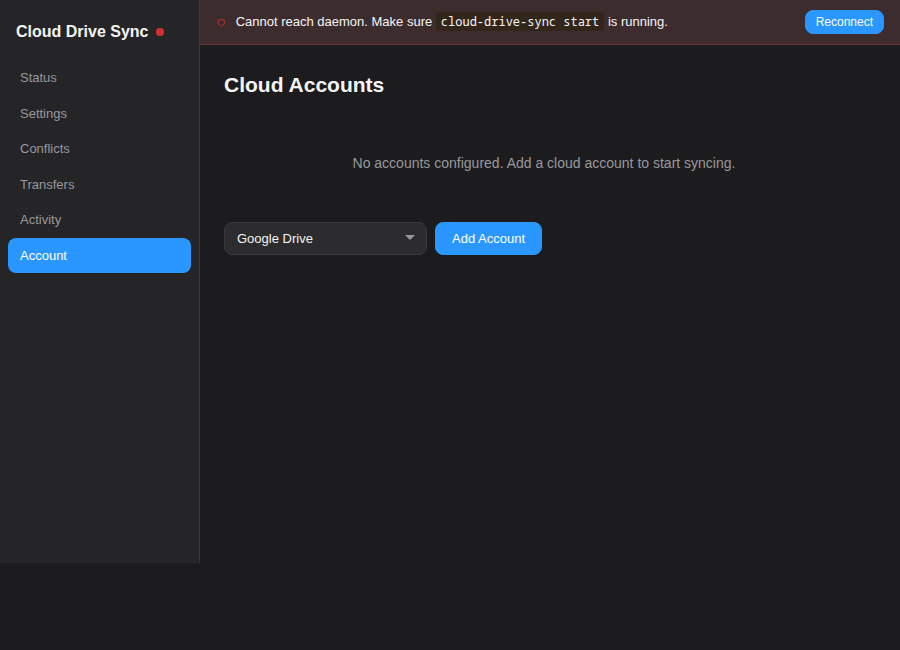
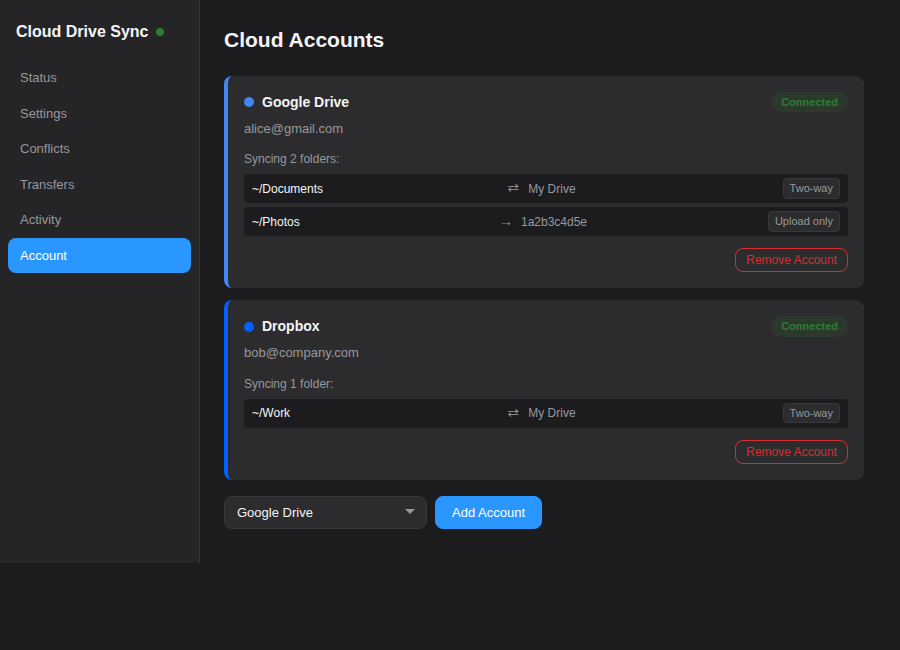
Add demo mode for screenshots, refresh all UI captures with rich data
Add DEMO=1 env var support in Vite config that swaps IPC calls for mock
data (ipc-demo.ts) and Tauri APIs for shims (tauri-shims.ts), enabling
headless browser screenshot capture without a running daemon.

Refresh all 6 UI screenshots with demo data showing multi-account setup
(Google Drive + Dropbox), sync folders, conflicts, activity log, and
transfers. Keep disconnected state screenshot for error documentation.

diff --git a/ui/src/lib/ipc-demo.ts b/ui/src/lib/ipc-demo.ts
@@ -1,0 +1,146 @@
+/**
+ * Mock IPC data for demo/screenshot mode.
+ * Used when Tauri runtime is not available (e.g., headless browser captures).
+ */
+
+import type {
+  Account,
+  DaemonStatus,
+  SyncPair,
+  ConflictRecord,
+  LogEntry,
+} from "./types";
+
+const DEMO_STATUS: DaemonStatus = {
+  connected: true,
+  daemon_reachable: true,
+  syncing: false,
+  paused: false,
+  error: null,
+  last_sync: new Date().toISOString(),
+  files_synced: 247,
+  active_transfers: 0,
+  live_transfers: [],
+  daemon: {
+    pid: 12345,
+    uptime: 86400,
+    uptime_formatted: "1d 0h 0m",
+    socket_path: "/run/user/1000/cloud-drive-sync.sock",
+  },
+};
+
+const DEMO_PAIRS: SyncPair[] = [
+  {
+    id: "pair_0",
+    local_path: "/home/user/Documents",
+    remote_folder_id: "root",
+    enabled: true,
+    sync_mode: "two_way",
+    ignore_hidden: true,
+    ignore_patterns: ["node_modules", "*.tmp"],
+    account_id: "alice@gmail.com",
+    provider: "gdrive",
+  },
+  {
+    id: "pair_1",
+    local_path: "/home/user/Photos",
+    remote_folder_id: "1a2b3c4d5e",
+    enabled: true,
+    sync_mode: "upload_only",
+    ignore_hidden: true,
+    ignore_patterns: [],
+    account_id: "alice@gmail.com",
+    provider: "gdrive",
+  },
+  {
+    id: "pair_2",
+    local_path: "/home/user/Work",
+    remote_folder_id: "root",
+    enabled: true,
+    sync_mode: "two_way",
+    ignore_hidden: false,
+    ignore_patterns: [".git", "build/"],
+    account_id: "bob@company.com",
+    provider: "dropbox",
+  },
+];
+
+const DEMO_ACCOUNTS: Account[] = [
+  {
+    email: "alice@gmail.com",
+    display_name: "Alice",
+    status: "connected",
+    provider: "gdrive",
+    max_concurrent_transfers: 4,
+  },
+  {
+    email: "bob@company.com",
+    display_name: "Bob",
+    status: "connected",
+    provider: "dropbox",
+    max_concurrent_transfers: 0,
+  },
+];
+
+const DEMO_CONFLICTS: ConflictRecord[] = [
+  {
+    id: "1",
+    path: "Documents/report-q4.docx",
+    local_mtime: "2026-03-22T14:30:00Z",
+    remote_mtime: "2026-03-22T15:10:00Z",
+    local_size: 245000,
+    remote_size: 248000,
+    detected_at: "2026-03-22T15:15:00Z",
+  },
+  {
+    id: "2",
+    path: "Photos/vacation/IMG_2024.jpg",
+    local_mtime: "2026-03-21T09:00:00Z",
+    remote_mtime: "2026-03-21T10:30:00Z",
+    local_size: 4200000,
+    remote_size: 4180000,
+    detected_at: "2026-03-21T11:00:00Z",
+  },
+];
+
+const DEMO_LOG: LogEntry[] = [
+  { id: 1, timestamp: "2026-03-23T10:05:00Z", event_type: "upload", path: "Documents/notes.md", details: "12 KB at 1.2 MB/s", status: "success", pair_id: "pair_0" },
+  { id: 2, timestamp: "2026-03-23T10:04:55Z", event_type: "download", path: "Documents/budget.xlsx", details: "89 KB at 2.1 MB/s", status: "success", pair_id: "pair_0" },
+  { id: 3, timestamp: "2026-03-23T10:04:50Z", event_type: "upload", path: "Photos/screenshot.png", details: "340 KB at 1.8 MB/s", status: "success", pair_id: "pair_1" },
+  { id: 4, timestamp: "2026-03-23T10:04:00Z", event_type: "sync", path: "", details: "Sync complete: 3 uploaded, 1 downloaded", status: "success", pair_id: "pair_0" },
+  { id: 5, timestamp: "2026-03-23T10:03:00Z", event_type: "conflict", path: "Documents/report-q4.docx", details: "Both sides modified", status: "error", pair_id: "pair_0" },
+  { id: 6, timestamp: "2026-03-23T09:58:00Z", event_type: "download", path: "Work/presentation.pptx", details: "2.1 MB at 3.4 MB/s", status: "success", pair_id: "pair_2" },
+  { id: 7, timestamp: "2026-03-23T09:55:00Z", event_type: "upload", path: "Work/src/main.py", details: "4 KB at 800 KB/s", status: "success", pair_id: "pair_2" },
+  { id: 8, timestamp: "2026-03-23T09:50:00Z", event_type: "sync", path: "", details: "Automatic sync started — scanning local and remote files", status: "success", pair_id: "pair_2" },
+];
+
+export async function getStatus(): Promise<DaemonStatus> { return DEMO_STATUS; }
+export async function getSyncPairs(): Promise<SyncPair[]> { return DEMO_PAIRS; }
+export async function addSyncPair() { return DEMO_PAIRS[0]; }
+export async function removeSyncPair() {}
+export async function setConflictStrategy() {}
+export async function resolveConflict() {}
+export async function forceSync() {}
+export async function pauseSync() {}
+export async function resumeSync() {}
+export async function getActivityLog(limit: number): Promise<LogEntry[]> { return DEMO_LOG.slice(0, limit); }
+export async function getConflicts(): Promise<ConflictRecord[]> { return DEMO_CONFLICTS; }
+export async function startAuth() { return {}; }
+export async function logout() {}
+export async function connectDaemon() {}
+export async function setSyncMode() {}
+export async function setIgnoreHidden() {}
+export async function setIgnorePatterns() {}
+export async function addAccount() { return { status: "ok" }; }
+export async function removeAccount() {}
+export async function listAccounts(): Promise<Account[]> { return DEMO_ACCOUNTS; }
+export async function setNotificationPrefs() { return { notify_sync_complete: true, notify_conflicts: true, notify_errors: true }; }
+export async function getNotificationPrefs() { return { notify_sync_complete: true, notify_conflicts: true, notify_errors: true }; }
+export async function setBandwidthLimits() { return { max_upload_kbps: 0, max_download_kbps: 0 }; }
+export async function getBandwidthLimits() { return { max_upload_kbps: 0, max_download_kbps: 0 }; }
+export async function setSyncRules() { return {}; }
+export async function getSyncRules() { return { max_file_size_mb: 0, include_regex: [], exclude_regex: [], min_date: "" }; }
+export async function setProxy() { return { http_proxy: "", https_proxy: "", no_proxy: "" }; }
+export async function getProxy() { return { http_proxy: "", https_proxy: "", no_proxy: "" }; }
+export async function listRemoteFolders() { return { folders: [{ id: "f1", name: "Documents" }, { id: "f2", name: "Photos" }, { id: "f3", name: "Work" }], parent_id: "root" }; }
+export async function setAccountMaxTransfers() { return {}; }

diff --git a/ui/vite.config.ts b/ui/vite.config.ts
@@ -1,11 +1,26 @@
 import { defineConfig } from "vite";
 import react from "@vitejs/plugin-react";
+import path from "path";
 
 const host = process.env.TAURI_DEV_HOST;
+const demoMode = process.env.DEMO === "1";
 
 export default defineConfig({
   plugins: [react()],
   clearScreen: false,
+  resolve: demoMode
+    ? {
+        alias: {
+          "../lib/ipc": path.resolve(__dirname, "src/lib/ipc-demo.ts"),
+          "./ipc": path.resolve(__dirname, "src/lib/ipc-demo.ts"),
+          "@tauri-apps/api/core": path.resolve(__dirname, "src/lib/tauri-shims.ts"),
+          "@tauri-apps/api/event": path.resolve(__dirname, "src/lib/tauri-shims.ts"),
+          "@tauri-apps/api/path": path.resolve(__dirname, "src/lib/tauri-shims.ts"),
+          "@tauri-apps/plugin-dialog": path.resolve(__dirname, "src/lib/tauri-shims.ts"),
+          "@tauri-apps/plugin-notification": path.resolve(__dirname, "src/lib/tauri-shims.ts"),
+        },
+      }
+    : undefined,
   server: {
     port: 1420,
     strictPort: true,

diff --git a/ui/src/lib/tauri-shims.ts b/ui/src/lib/tauri-shims.ts
@@ -1,0 +1,31 @@
+/**
+ * Shims for @tauri-apps APIs when running outside Tauri (demo/screenshot mode).
+ */
+
+// @tauri-apps/api/core
+export function invoke(): Promise<never> {
+  return Promise.reject(new Error("Not in Tauri"));
+}
+
+// @tauri-apps/api/event
+export type UnlistenFn = () => void;
+export function listen(): Promise<UnlistenFn> {
+  return Promise.resolve(() => {});
+}
+export function emit() {}
+
+// @tauri-apps/api/path
+export async function homeDir(): Promise<string> {
+  return "/home/user";
+}
+
+// @tauri-apps/plugin-dialog
+export async function open(): Promise<string | null> {
+  return null;
+}
+
+// @tauri-apps/plugin-notification
+export function sendNotification() {}
+export function isPermissionGranted(): Promise<boolean> {
+  return Promise.resolve(false);
+}
